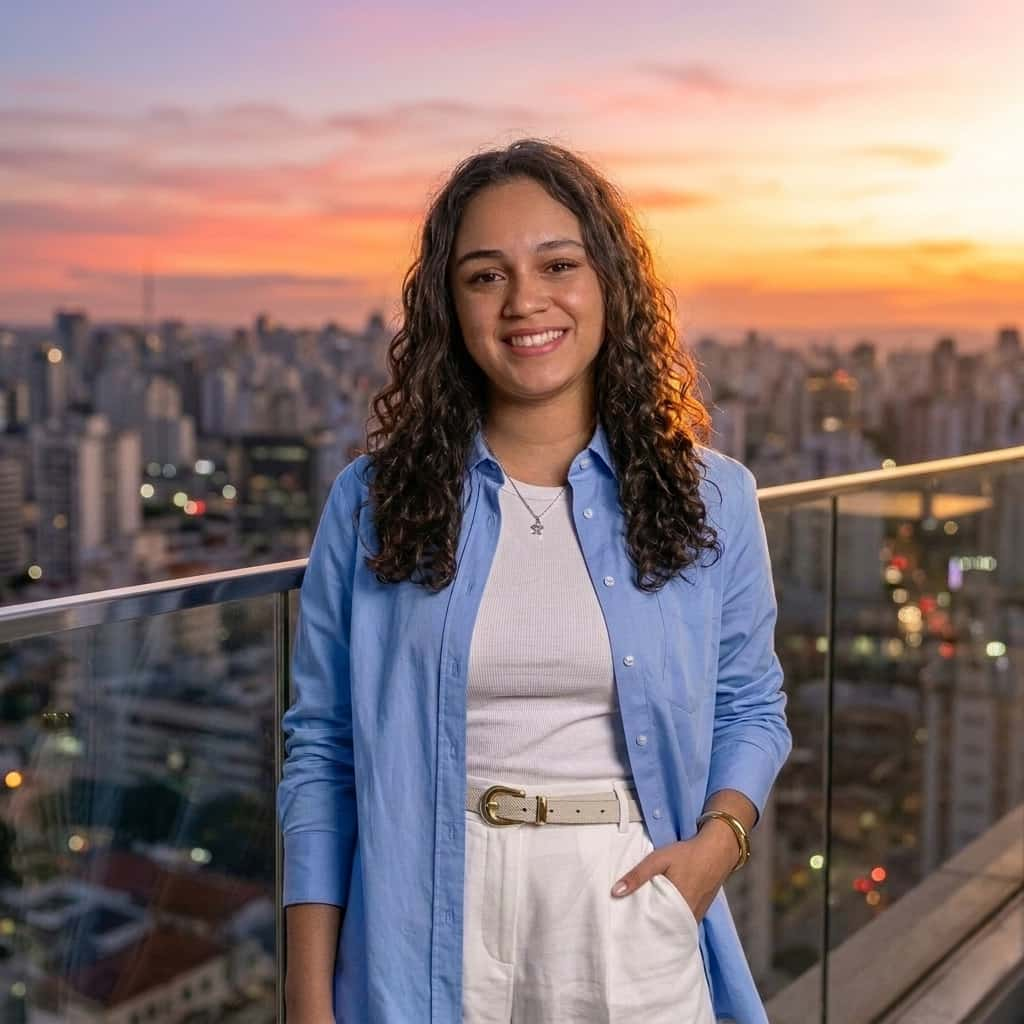
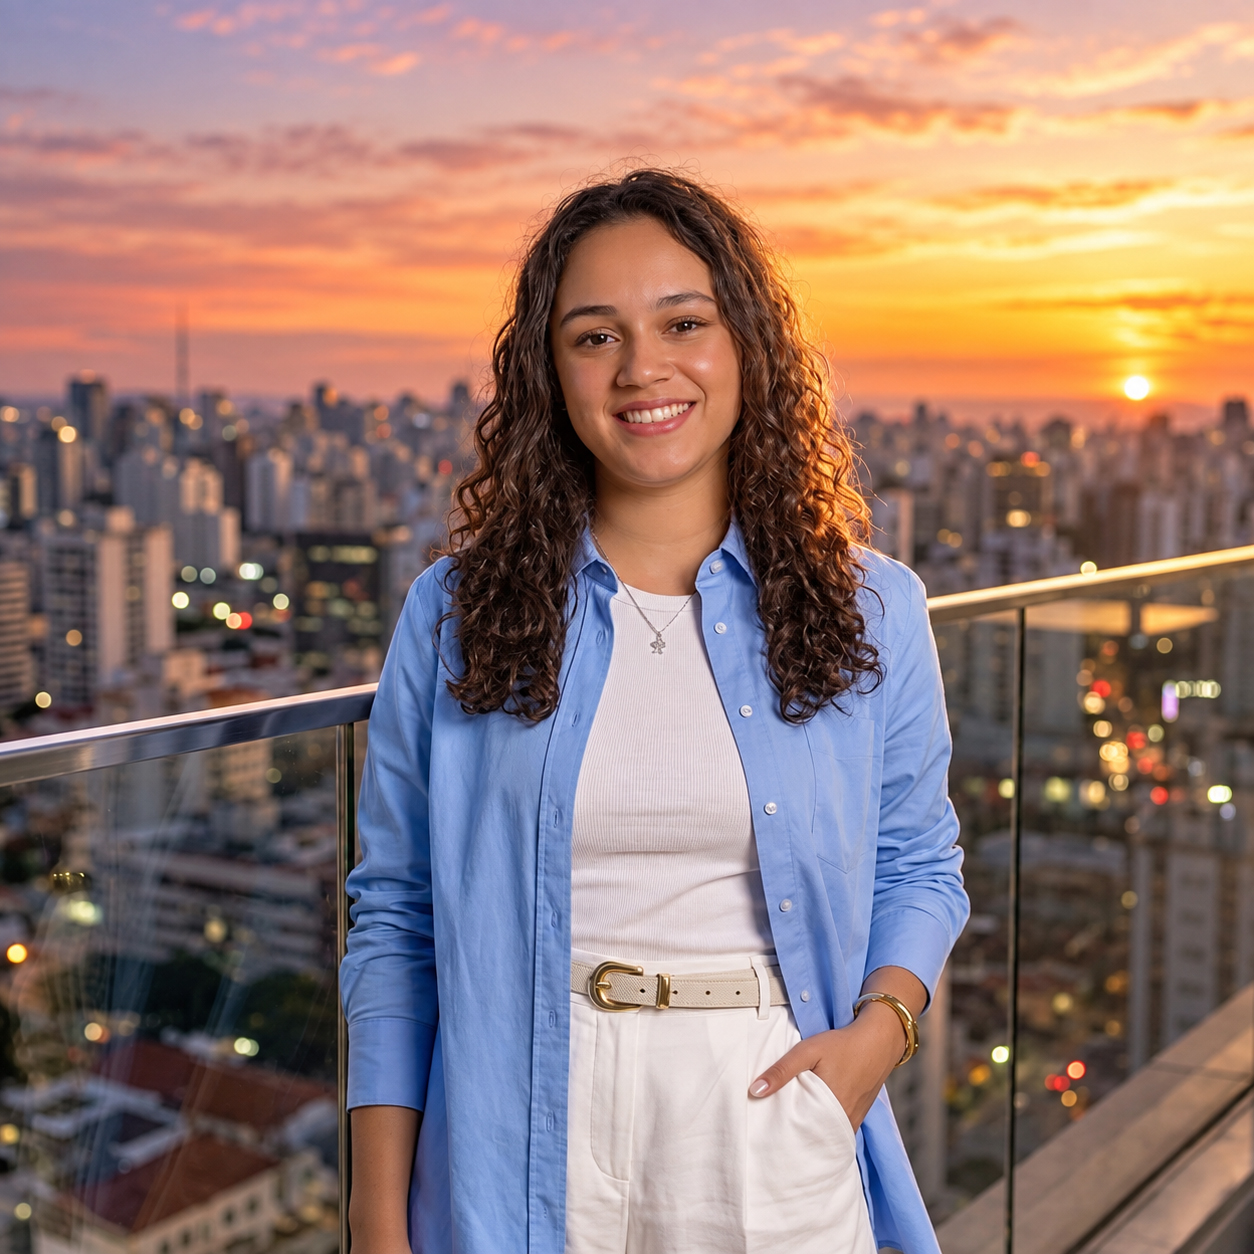
atualização de portfolio para modo dark

diff --git a/index.html b/index.html
@@ -10,28 +10,33 @@
   *, *::before, *::after { box-sizing: border-box; margin: 0; padding: 0; }
 
   :root {
-    --white: #FAFAF8;
-    --black: #111110;
-    --pink: #E8547A;
-    --pink-light: #FDF0F3;
-    --pink-mid: #F4C5D0;
-    --pink-bg: #FDF6F8;
-    --pink-blob: #FBEAF0;
-    --gray: #6B6B6B;
-    --gray-light: #F0EFED;
-    --gray-border: #E4E3E0;
+    --white: #16121A;        /* fundo principal (escuro rosado) */
+    --black: #F2EDF0;        /* texto (quase branco) */
+    --pink: #FF6B92;         /* rosa vibrante */
+    --pink-light: #2A1F28;   /* rosa escuro para fundos sutis */
+    --pink-mid: #6E3B52;     /* rosa médio escurecido */
+    --pink-bg: #1E1822;      /* fundo rosado sutil das seções */
+    --pink-blob: #2C2030;    /* blob */
+    --gray: #A89CA6;         /* texto secundário */
+    --gray-light: #231D29;   /* campos, fundos claros */
+    --gray-border: #362E3D;  /* bordas */
     --serif: 'Cormorant Garamond', Georgia, serif;
     --sans: 'DM Sans', sans-serif;
+    --nav-bg: rgba(22,18,26,0.82);
+    --nav-bg-mobile: rgba(22,18,26,0.96);
+    --card-shadow: rgba(0,0,0,0.4);
+    --body-overlay: rgba(18, 14, 22, 0.55);
   }
 
   html { scroll-behavior: smooth; }
 
   body {
-    background-color: var(--white);
-    background-image: url('background2.png');
+    background-color: #0A0710;
+    background-image: url('images/background.png');
     background-size: cover;
     background-position: center;
     background-attachment: fixed;
+    background-repeat: no-repeat;
     color: var(--black);
     font-family: var(--sans);
     overflow-x: hidden;
@@ -43,7 +48,7 @@
     content: '';
     position: fixed;
     inset: 0;
-    background: rgba(250, 250, 248, 0.72);
+    background: var(--body-overlay);
     z-index: 0;
     pointer-events: none;
   }
@@ -87,7 +92,7 @@
     position: fixed; top: 0; left: 0; right: 0; z-index: 100;
     padding: 24px 6vw;
     display: flex; justify-content: space-between; align-items: center;
-    background: rgba(250,250,248,0.92);
+    background: var(--nav-bg);
     backdrop-filter: blur(12px);
     border-bottom: 1px solid var(--gray-border);
   }
@@ -129,35 +134,57 @@
 
   /* HERO (dentro de projetos) */
   .hero {
+    padding: 60px 6vw 40px;
+    position: relative;
+    z-index: 1;
+  }
+
+  /* FAIXA DE SKILLS ROLANTE (marquee) */
+  .skills-marquee {
+    position: relative; z-index: 1;
+    overflow: hidden;
+    border-top: 1px solid var(--gray-border);
+    border-bottom: 1px solid var(--gray-border);
+    padding: 22px 0;
+    margin-bottom: 40px;
+    background: rgba(30, 24, 34, 0.35);
+    -webkit-mask-image: linear-gradient(90deg, transparent, #000 8%, #000 92%, transparent);
+    mask-image: linear-gradient(90deg, transparent, #000 8%, #000 92%, transparent);
+  }
+  .skills-marquee-track {
+    display: inline-flex; align-items: center;
+    white-space: nowrap;
+    animation: marquee 28s linear infinite;
+    will-change: transform;
+  }
+  .skills-marquee:hover .skills-marquee-track { animation-play-state: paused; }
+  .skills-marquee-item {
+    font-family: var(--serif); font-size: 22px; font-weight: 400;
+    color: var(--black); padding: 0 4px;
+  }
+  .skills-marquee-item em { font-style: italic; color: var(--pink); }
+  .skills-marquee-sep { color: var(--pink); font-size: 16px; padding: 0 22px; }
+  @keyframes marquee {
+    from { transform: translateX(0); }
+    to { transform: translateX(-50%); }
+  }
+  @media (prefers-reduced-motion: reduce) {
+    .skills-marquee-track { animation: none; }
+    .skills-marquee { -webkit-mask-image: none; mask-image: none; text-align: center; }
+    .skills-marquee-track { white-space: normal; display: block; }
+  }
+  @media (max-width: 600px) {
+    .skills-marquee-item { font-size: 18px; }
+    .skills-marquee-sep { padding: 0 14px; }
+  }
+
+  .hero-old-grid {
     padding: 60px 6vw 80px;
     display: grid; grid-template-columns: 1fr 1fr;
     gap: 60px; align-items: center;
     position: relative;
     overflow: hidden;
     z-index: 1;
-  }
-
-  .hero::after {
-    content: '';
-    position: absolute;
-    width: 620px; height: 620px;
-    background: var(--pink-blob);
-    border-radius: 42% 58% 63% 37% / 45% 45% 55% 55%;
-    top: -180px; right: -160px;
-    z-index: 0;
-    opacity: 0.7;
-    filter: blur(2px);
-  }
-
-  .hero::before {
-    content: '';
-    position: absolute;
-    inset: 0;
-    background-image: url('background1.jpg');
-    background-size: cover;
-    background-position: center top;
-    opacity: 0.13;
-    z-index: 0;
   }
 
   .hero > * {
@@ -358,7 +385,8 @@
     top: 50%;
     left: 50%;
     width: 380px;
-    background: var(--white);
+    background: rgba(28, 22, 34, 0.82);
+    backdrop-filter: blur(6px);
     overflow: hidden;
     border: 1px solid var(--gray-border);
     border-radius: 20px;
@@ -535,40 +563,15 @@
   .about-skill-name { color: var(--black); font-weight: 500; }
   .about-skill-level { color: var(--pink); font-size: 11px; font-weight: 600; letter-spacing: 0.1em; text-transform: uppercase; }
 
-  /* PROJETOS e SOBRE — background */
+  /* PROJETOS e SOBRE — sem fundo próprio (usa a nebulosa do body) */
   #page-projetos,
   #page-sobre {
-    background-image: url('images/background-pag1e2.png');
-    background-size: cover;
-    background-position: center;
-    background-repeat: no-repeat;
     position: relative;
-  }
-  #page-projetos::before,
-  #page-sobre::before {
-    content: '';
-    position: absolute;
-    inset: 0;
-    background: rgba(255, 255, 255, 0.75);
-    pointer-events: none;
-    z-index: 0;
   }
 
   /* CONTATO */
   #page-contato {
-    background-image: url('images/contato-bkg.jpg');
-    background-size: cover;
-    background-position: center top;
-    background-repeat: no-repeat;
     position: relative;
-  }
-  #page-contato::before {
-    content: '';
-    position: absolute;
-    inset: 0;
-    background: rgba(255, 255, 255, 0.70);
-    pointer-events: none;
-    z-index: 0;
   }
   .contact-page { padding: 60px 6vw 80px; position: relative; z-index: 1; border-radius: 40px 40px 0 0; }
 
@@ -658,7 +661,7 @@
     .hero-actions { flex-direction: column; align-items: flex-start; gap: 14px; }
 
     /* HAMBÚRGUER */
-    .nav-links { display: none; flex-direction: column; position: absolute; top: 100%; left: 0; right: 0; background: rgba(250,250,248,0.98); backdrop-filter: blur(12px); border-bottom: 1px solid var(--gray-border); padding: 8px 0; z-index: 99; }
+    .nav-links { display: none; flex-direction: column; position: absolute; top: 100%; left: 0; right: 0; background: var(--nav-bg-mobile); backdrop-filter: blur(12px); border-bottom: 1px solid var(--gray-border); padding: 8px 0; z-index: 99; }
     .nav-links.open { display: flex; }
     .nav-links li { list-style: none; }
     .nav-links .nav-tab { display: block; padding: 14px 6vw; border-bottom: none; width: 100%; font-size: 13px; text-align: left; }
@@ -1054,79 +1057,26 @@
         <button class="btn-ghost" onclick="showPage('sobre')" data-pt="Sobre mim" data-en="About me">Sobre mim</button>
       </div>
     </div>
+  </div>
 
-    <div class="hero-visual">
-      <div class="hero-card">
-        <div class="hero-card-label" data-pt="Skills" data-en="Skills">Skills</div>
-        <div class="hero-card-skills">
-
-          <div class="skill-group">
-            <div class="skill-group-label">
-              <span data-pt="Product Design" data-en="Product Design">Product Design</span>
-            </div>
-            <div class="skill-pills">
-              <span class="skill-pill" data-pt="Definição de problema" data-en="Problem definition">Definição de problema</span>
-              <span class="skill-pill" data-pt="Discovery" data-en="Discovery">Discovery</span>
-              <span class="skill-pill" data-pt="UX Strategy" data-en="UX Strategy">UX Strategy</span>
-              <span class="skill-pill" data-pt="User flows" data-en="User flows">User flows</span>
-              <span class="skill-pill" data-pt="Wireframes" data-en="Wireframes">Wireframes</span>
-              <span class="skill-pill" data-pt="Prototipagem" data-en="Prototyping">Prototipagem</span>
-              <span class="skill-pill" data-pt="UX Writing" data-en="UX Writing">UX Writing</span>
-              <span class="skill-pill" data-pt="Design System" data-en="Design System">Design System</span>
-              <span class="skill-pill" data-pt="Análise de métricas" data-en="Metrics analysis">Análise de métricas</span>
-            </div>
-          </div>
-
-          <div class="skill-group">
-            <div class="skill-group-label">
-              <span data-pt="UX Research" data-en="UX Research">UX Research</span>
-            </div>
-            <div class="skill-pills">
-              <span class="skill-pill" data-pt="Entrevistas" data-en="Interviews">Entrevistas</span>
-              <span class="skill-pill" data-pt="Jornadas do usuário" data-en="User journeys">Jornadas do usuário</span>
-              <span class="skill-pill" data-pt="Personas" data-en="Personas">Personas</span>
-              <span class="skill-pill" data-pt="Testes de usabilidade" data-en="Usability testing">Testes de usabilidade</span>
-              <span class="skill-pill" data-pt="Análise de competidores" data-en="Competitive analysis">Análise de competidores</span>
-            </div>
-          </div>
-
-          <div class="skill-group">
-            <div class="skill-group-label">
-              <span data-pt="Ferramentas" data-en="Tools">Ferramentas</span>
-            </div>
-            <div class="skill-pills">
-              <span class="skill-pill highlight">Figma</span>
-              <span class="skill-pill">Microsoft Clarity</span>
-              <span class="skill-pill">Google Analytics</span>
-              <span class="skill-pill" data-pt="Pacote Adobe" data-en="Adobe Suite">Pacote Adobe</span>
-            </div>
-          </div>
-
-          <div class="skill-group">
-            <div class="skill-group-label">
-              <span data-pt="Front-end" data-en="Front-end">Front-end</span>
-            </div>
-            <div class="skill-pills">
-              <span class="skill-pill">HTML</span>
-              <span class="skill-pill">CSS / SASS</span>
-              <span class="skill-pill">JavaScript</span>
-              <span class="skill-pill">React</span>
-            </div>
-          </div>
-
-          <div class="skill-group">
-            <div class="skill-group-label">
-              <span data-pt="IA no processo de design" data-en="AI in the design process">IA no processo de design</span>
-            </div>
-            <div class="skill-pills">
-              <span class="skill-pill highlight" data-pt="Prototipagem assistida" data-en="AI-assisted prototyping">Prototipagem assistida</span>
-              <span class="skill-pill highlight" data-pt="Aceleração de pesquisa" data-en="Research acceleration">Aceleração de pesquisa</span>
-              <span class="skill-pill highlight" data-pt="Geração de variações" data-en="Variation generation">Geração de variações</span>
-            </div>
-          </div>
-
-        </div>
-      </div>
+  <div class="skills-marquee" aria-label="Skills">
+    <div class="skills-marquee-track">
+      <span class="skills-marquee-item">Product Design</span><span class="skills-marquee-sep">•</span>
+      <span class="skills-marquee-item">UX/UI Design</span><span class="skills-marquee-sep">•</span>
+      <span class="skills-marquee-item">Visual &amp; Brand Design</span><span class="skills-marquee-sep">•</span>
+      <span class="skills-marquee-item">Figma</span><span class="skills-marquee-sep">•</span>
+      <span class="skills-marquee-item">Front-end</span><span class="skills-marquee-sep">•</span>
+      <span class="skills-marquee-item"><em>IA</em></span><span class="skills-marquee-sep">•</span>
+      <span class="skills-marquee-item">Design System</span><span class="skills-marquee-sep">•</span>
+      <span class="skills-marquee-item">Discovery</span><span class="skills-marquee-sep">•</span>
+      <span class="skills-marquee-item">Product Design</span><span class="skills-marquee-sep">•</span>
+      <span class="skills-marquee-item">UX/UI Design</span><span class="skills-marquee-sep">•</span>
+      <span class="skills-marquee-item">Visual &amp; Brand Design</span><span class="skills-marquee-sep">•</span>
+      <span class="skills-marquee-item">Figma</span><span class="skills-marquee-sep">•</span>
+      <span class="skills-marquee-item">Front-end</span><span class="skills-marquee-sep">•</span>
+      <span class="skills-marquee-item"><em>IA</em></span><span class="skills-marquee-sep">•</span>
+      <span class="skills-marquee-item">Design System</span><span class="skills-marquee-sep">•</span>
+      <span class="skills-marquee-item">Discovery</span><span class="skills-marquee-sep">•</span>
     </div>
   </div>
 
